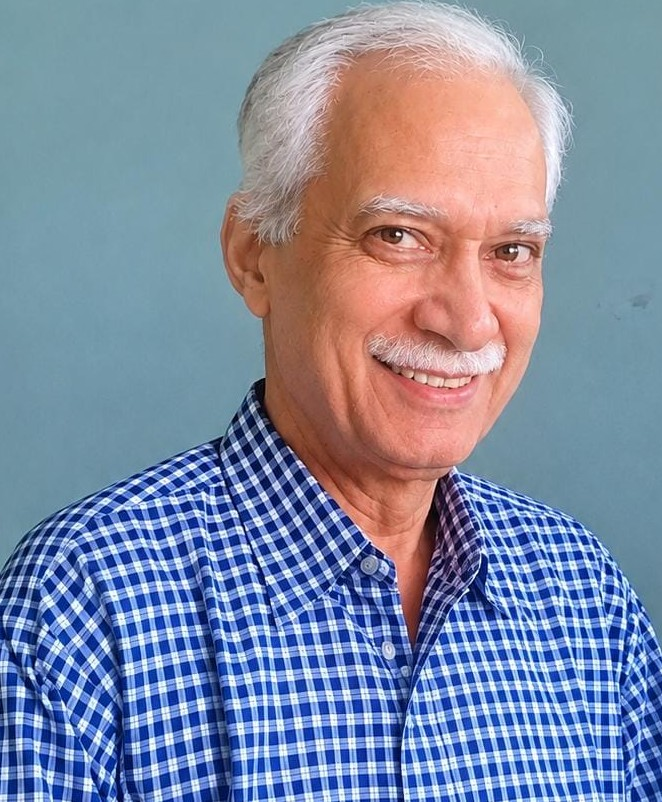
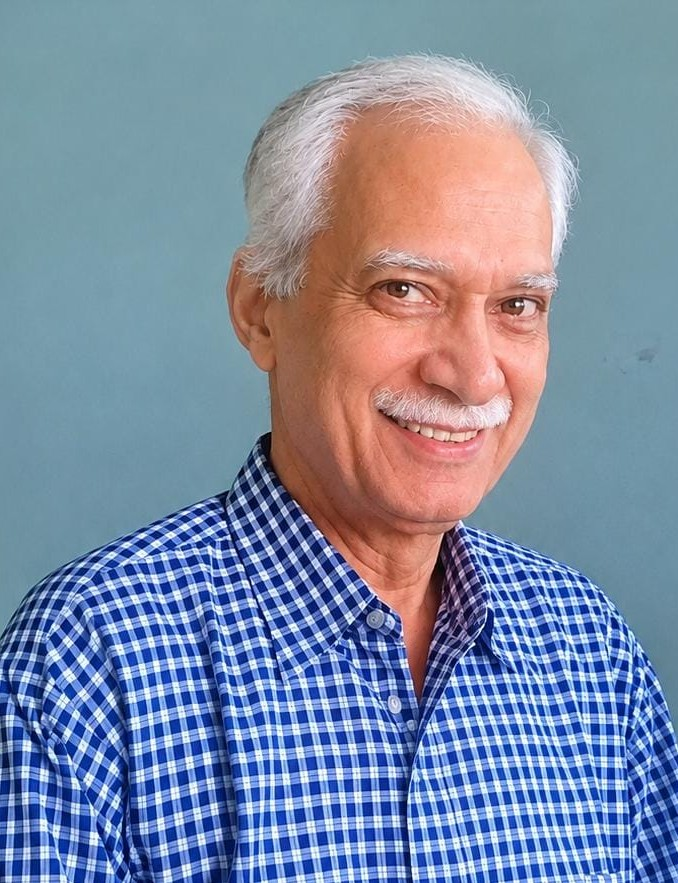
set owner  images

diff --git a/css/style.css b/css/style.css
@@ -1903,11 +1903,15 @@ html {
 .founder-image img {
   width: 100%;
   max-width: 400px;
-  height: 440px;
+  height: 430px;
   object-fit: cover;
+  object-position: center 20%;
   border-radius: 15px;
   box-shadow: 0 15px 35px rgba(0,0,0,0.12);
+  background: #f5f5f5;
 }
+
+
 
 .founder-label {
   color: #f59e0b;
